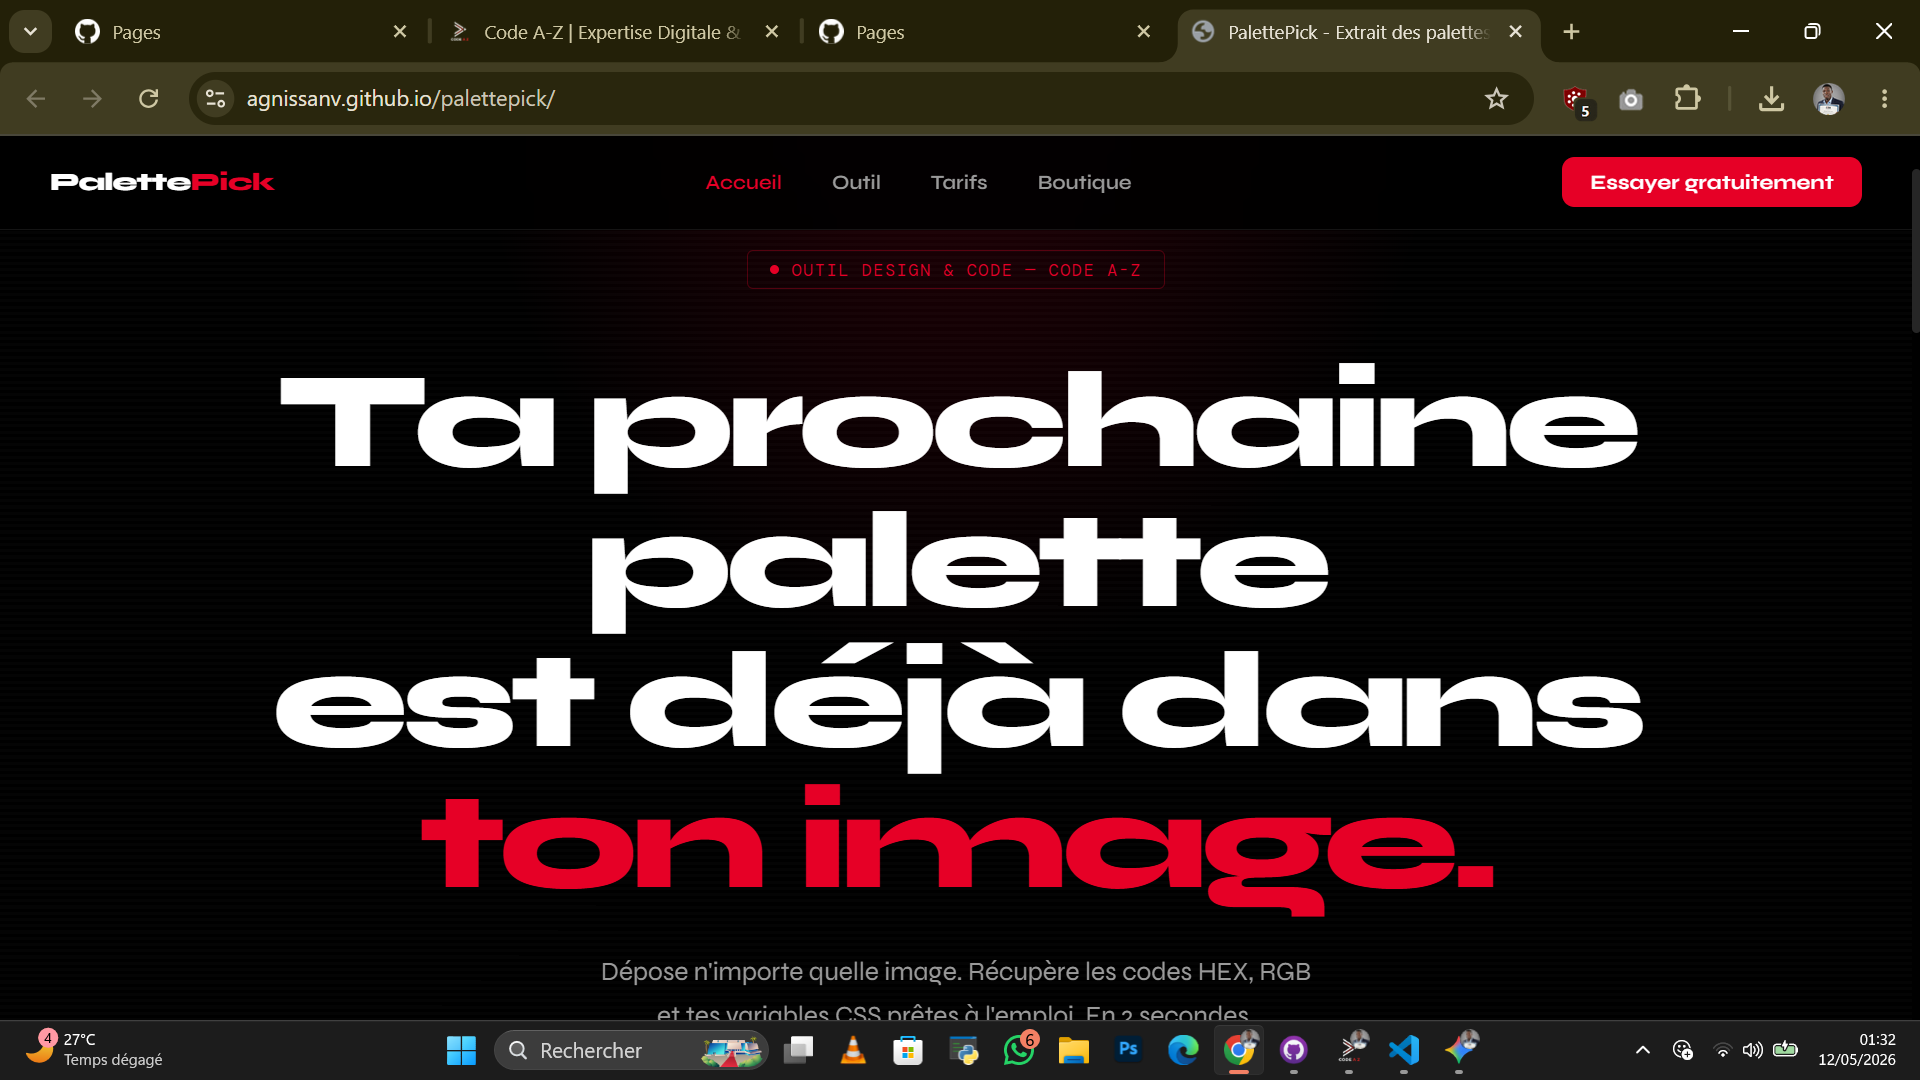
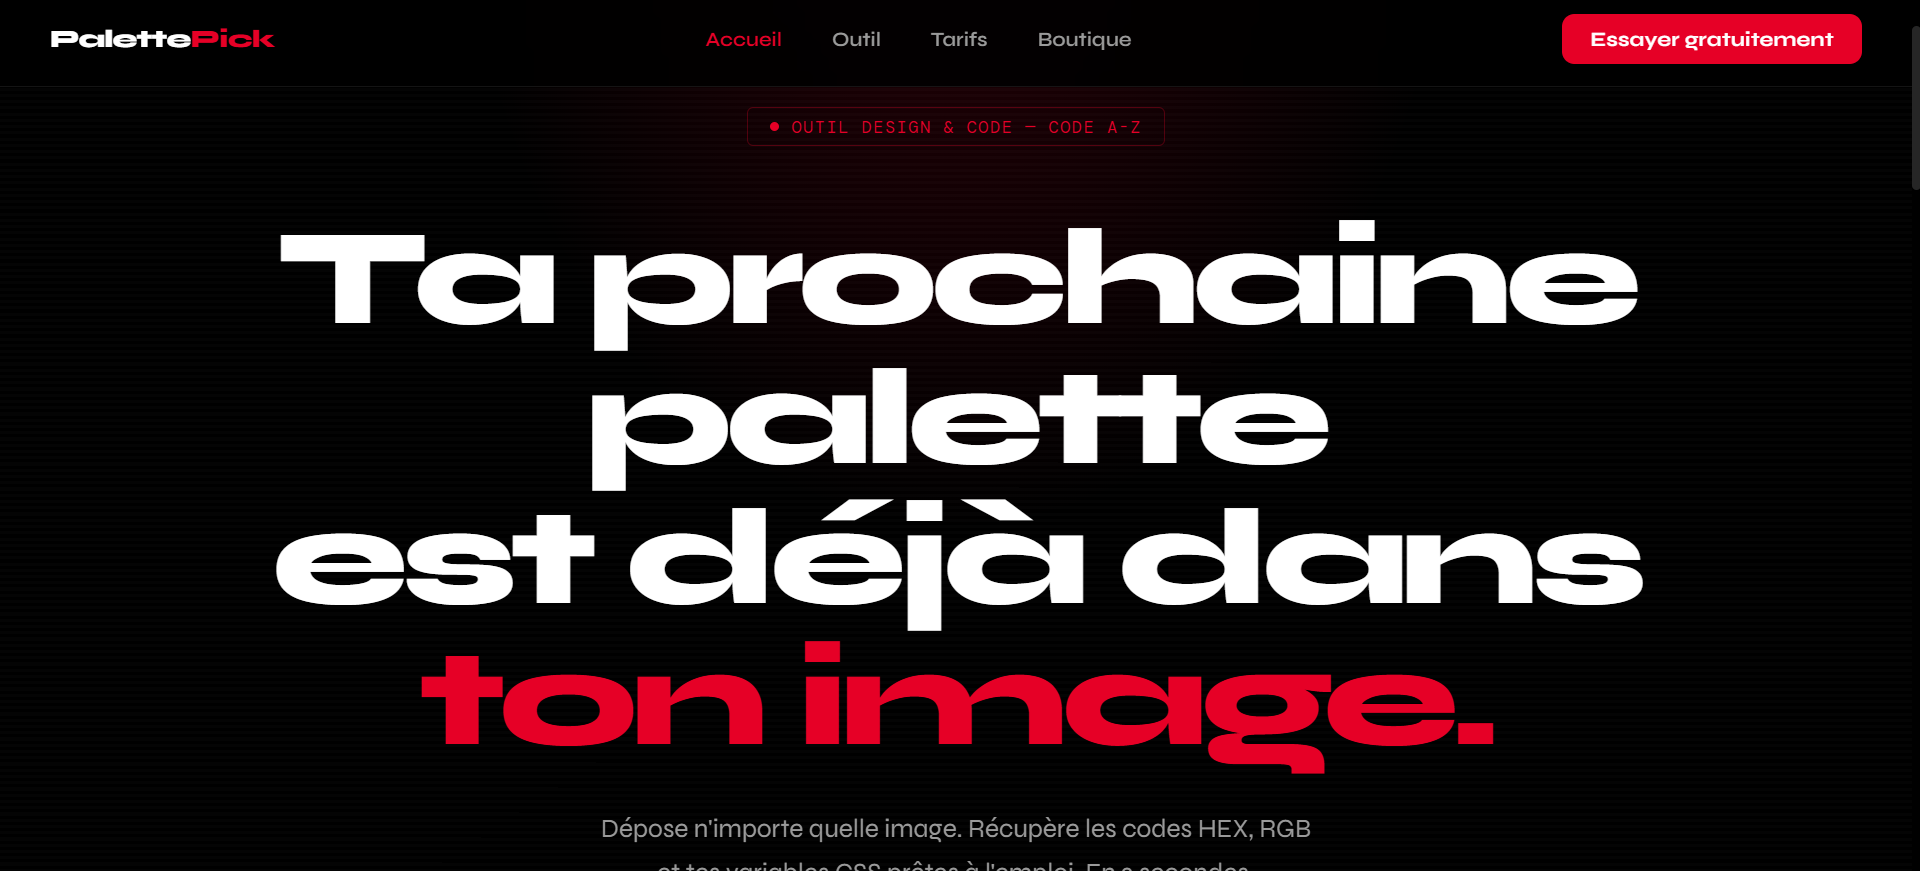
p

diff --git a/index.html b/index.html
@@ -450,9 +450,9 @@
 
                 <div class="grid-item">
                     <div class="card" data-category="web">
-                        <img src="./images/projets/images/dev_web/SENTIMENTALE.COM1.webp" alt="images du projet SENTIMENTALE.COM — E-Commerce Premium Template" loading="lazy" class="card-image">
+                        <img src="./images/projets/images/dev_web/SENTIMENTALE.COM1.webp" alt="images du projet SENTIMENTALE — E-Commerce " loading="lazy" class="card-image">
                         <div class="card-inner">
-                            <h3 class="card-title">SENTIMENTALE.COM — E-Commerce Premium Template</h3>
+                            <h3 class="card-title">SENTIMENTALE — E-Commerce  </h3>
                             <p class="category">Développement Web</p>
                         </div>
                         <div class="card-overlay">
@@ -466,12 +466,12 @@
                             <div class="container">
                                 <div class="grid">
                                     <div class="grid-item">
-                                        <img src="./images/projets/images/dev_web/SENTIMENTALE.COM2.webp" alt="images du projet SENTIMENTALE.COM — E-Commerce Premium Template" loading="lazy" class="card-image"> <hr>
-                                        <img src="./images/projets/images/dev_web/SENTIMENTALE.COM3.webp" alt="images du projet SENTIMENTALE.COM — E-Commerce Premium Template" loading="lazy" class="card-image"> <hr>
-                                        <img src="./images/projets/images/dev_web/SENTIMENTALE.COM4.webp" alt="images du projet SENTIMENTALE.COM — E-Commerce Premium Template" loading="lazy" class="card-image"> <hr>
+                                        <img src="./images/projets/images/dev_web/SENTIMENTALE.COM2.webp" alt="images du projet SENTIMENTALE — E-Commerce " loading="lazy" class="card-image"> <hr>
+                                        <img src="./images/projets/images/dev_web/SENTIMENTALE.COM3.webp" alt="images du projet SENTIMENTALE — E-Commerce " loading="lazy" class="card-image"> <hr>
+                                        <img src="./images/projets/images/dev_web/SENTIMENTALE.COM4.webp" alt="images du projet SENTIMENTALE — E-Commerce " loading="lazy" class="card-image"> <hr>
                                     </div>
                                     <div class="grid-item">
-                                        <h4 class="modal-title h2">SENTIMENTALE.COM — E-Commerce Premium Template</h4>
+                                        <h4 class="modal-title h2">SENTIMENTALE — E-Commerce</h4>
                                         <p>
                                             <i class="fa-solid fa-calendar"></i> 
                                             <i>Année: 2026</i>
@@ -510,7 +510,7 @@
                                             <li>JavaScript</li>
                                         </ul>
                                         <a href="https://agnissanv.github.io/Site_complet_sentimentale1/" target="_blank" rel="noopener">
-                                            <button class="btn">Visiter le site</button>
+                                            <button class="btn">Voir le site</button>
                                         </a>
                                     </div>
                                 </div>
@@ -524,25 +524,25 @@
 
                 <div class="grid-item">
                     <div class="card" data-category="web">
-                        <img src="./imagesduprojet.webp" alt="images du projet" loading="lazy" class="card-image">
+                        <img src="./images/projets/images/dev_web/palettepick1.png" alt="images du projet" loading="lazy" class="card-image">
                         <div class="card-inner">
                             <h3 class="card-title">PalettePick</h3>
                             <p class="category">Développement Web</p>
                         </div>
                         <div class="card-overlay">
-                            <a href="#" class="card-link" data-id="modal-1">+</a>
+                            <a href="#" class="card-link" data-id="modal-p">+</a>
                         </div>
                     </div>
-                    <div class="modal" id="modal-1">
+                    <div class="modal" id="modal-p">
                         <button class="modal-close">&times;</button>
                         <div class="modal-content">
 
                             <div class="container">
                                 <div class="grid">
                                     <div class="grid-item">
-                                        <img src="./images/projets/images/dev_web/palettepick1.png" alt="Aperçu PalettePick" loading="lazy" class="card-image"> <hr>
-                                        <img src="./images/projets/images/dev_web/palettepick2.png" alt="Outil d'extraction" loading="lazy" class="card-image"> <hr>
-                                        <img src="./images/projets/images/dev_web/palettepick3.png" alt="Section Tarifs" loading="lazy" class="card-image"> <hr>
+                                        <img src="./images/projets/images/dev_web/palettepick.jpg" alt="Aperçu PalettePick" loading="lazy" class="card-image" style="border: 1px solid #ccc;"> <hr>
+                                        <img src="./images/projets/images/dev_web/palettepick2.png" alt="Outil d'extraction" loading="lazy" class="card-image" style="border: 1px solid #ccc;"> <hr>
+                                        <img src="./images/projets/images/dev_web/palettepick3.png" alt="Section Tarifs" loading="lazy" class="card-image" style="border: 1px solid #ccc;"> <hr>
                                     </div>
                                     <div class="grid-item">
                                         <h4 class="modal-title h2">PalettePick</h4>
@@ -778,7 +778,7 @@
                                             <li>Git / GitHub Pages : Pour le déploiement et la gestion de version.</li>
                                         </ul> <hr>
                                         <a href="https://agnissanv.github.io/Optic_template/" target="_blank" rel="noopener">
-                                            <button class="btn">Visiter le site</button>
+                                            <button class="btn">Voir le site</button>
                                         </a>
                                     </div>
                                 </div>
@@ -973,7 +973,7 @@
                                             <li>BOOTSTRAP</li>
                                         </ul>
                                         <a href="https://agnissanv.github.io/mon_blog-Code_A-Z/" target="_blank" rel="noopener">
-                                            <button class="btn">Visiter le site</button>
+                                            <button class="btn">Voir le site</button>
                                         </a>
                                     </div>
                                 </div>
